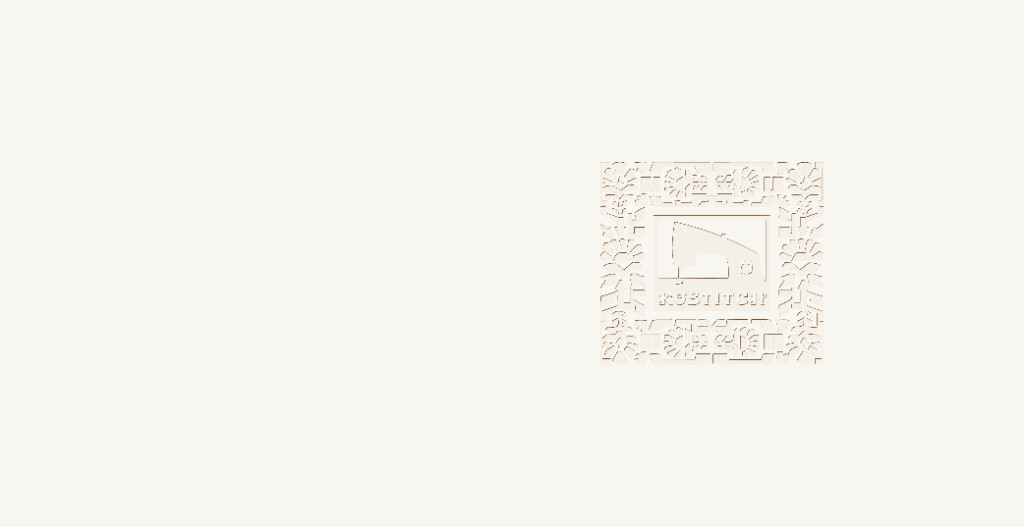
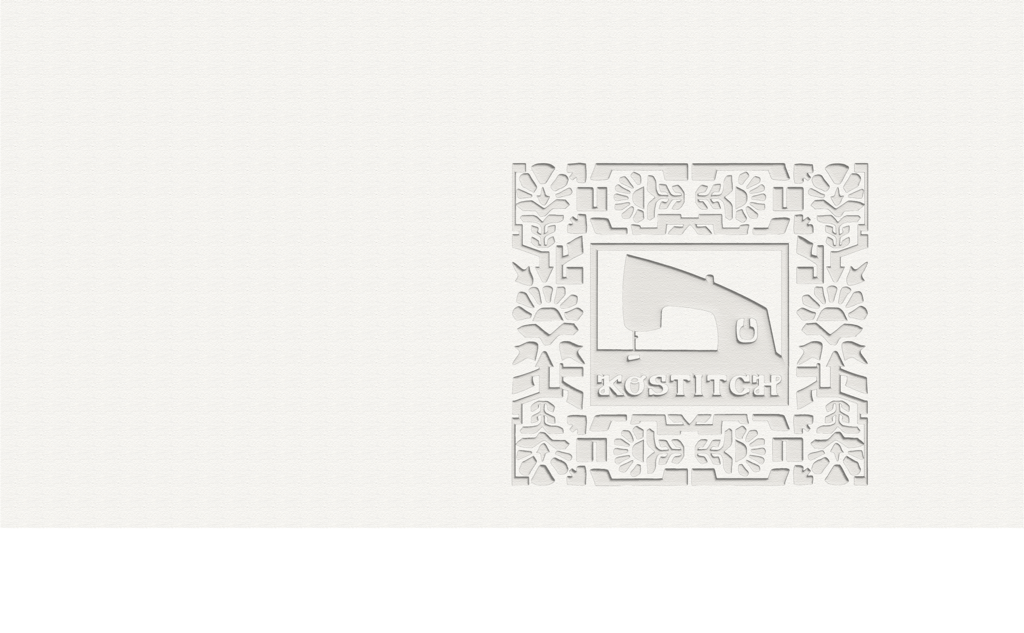
Update hero layout and switch site typography to Poppins.
Refine homepage hero overlay, banner assets, and CTA styling while applying Poppins as the default font across the site.

Changed region(s): [[0.5, 0.2429, 0.875, 0.759], [0.625, 0.4858, 0.6562, 0.5161]]

diff --git a/src/components/sections/HomeHero.jsx b/src/components/sections/HomeHero.jsx
@@ -7,39 +7,37 @@ function HeroContent({ className = '' }) {
 
   return (
     <div className={className}>
-      <h1 className="font-display text-4xl sm:text-5xl lg:text-6xl font-bold text-text-on-light leading-tight mb-8">
+      <h1 className="text-4xl sm:text-5xl lg:text-6xl font-bold uppercase tracking-wide text-text-on-light leading-tight mb-8">
         {headline}
       </h1>
       <Link to="/contact">
-        <Button size="lg">{ctaLabel}</Button>
+        <Button size="lg" className="rounded-full uppercase tracking-widest !text-text-on-light">
+          {ctaLabel}
+        </Button>
       </Link>
     </div>
   )
 }
 
 export default function HomeHero() {
-  const { bannerImage, headline } = homeContent.hero
+  const { bannerImage, bannerImage2x, headline } = homeContent.hero
 
   return (
-    <section className="w-full bg-light">
-      <div className="container-custom pt-24 pb-8 md:hidden">
-        <HeroContent />
-      </div>
-
-      <div className="relative w-full flex justify-end">
-        <img
-          src={bannerImage}
-          alt={headline}
-          width={1024}
-          height={527}
-          className="w-full max-w-[1024px] h-auto block"
-          fetchPriority="high"
-          decoding="async"
-        />
-        <div className="absolute inset-0 hidden md:flex items-center">
-          <div className="container-custom w-full pb-12 lg:pb-16">
-            <HeroContent className="max-w-xl lg:max-w-2xl" />
-          </div>
+    <section className="relative w-full bg-light">
+      <img
+        src={bannerImage}
+        srcSet={`${bannerImage} 1x, ${bannerImage2x} 2x`}
+        sizes="100vw"
+        alt={headline}
+        width={1024}
+        height={633}
+        className="w-full h-auto block"
+        fetchPriority="high"
+        decoding="async"
+      />
+      <div className="absolute inset-0 flex items-start">
+        <div className="container-custom w-full pt-28 pb-12 md:pt-32 lg:pb-16">
+          <HeroContent className="max-w-[11rem] sm:max-w-xs md:max-w-[46%] lg:max-w-md" />
         </div>
       </div>
     </section>

diff --git a/index.html b/index.html
@@ -6,7 +6,7 @@
     <meta name="viewport" content="width=device-width, initial-scale=1.0" />
     <link rel="preconnect" href="https://fonts.googleapis.com" />
     <link rel="preconnect" href="https://fonts.gstatic.com" crossorigin />
-    <link href="https://fonts.googleapis.com/css2?family=Oswald:wght@400;500;600;700&display=swap" rel="stylesheet" />
+    <link href="https://fonts.googleapis.com/css2?family=Poppins:wght@400;500;600;700&display=swap" rel="stylesheet" />
     <title>Kostitch - Premium Garment Manufacturing</title>
   </head>
   <body>

diff --git a/tailwind.config.js b/tailwind.config.js
@@ -7,7 +7,8 @@ export default {
   theme: {
     extend: {
       fontFamily: {
-        display: ['Oswald', 'sans-serif'],
+        sans: ['Poppins', 'sans-serif'],
+        display: ['Poppins', 'sans-serif'],
       },
       colors: {
         cream: '#f8f6f1',

diff --git a/src/data/home.js b/src/data/home.js
@@ -6,6 +6,7 @@ export const homeContent = {
   hero: {
     headline: 'Custom Sewing for Every Industry',
     bannerImage: '/images/hero-tan.png',
+    bannerImage2x: '/images/hero-tan@2x.png',
     ctaLabel: 'Get a Quote',
   },
   whyUs: {

diff --git a/src/styles/index.css b/src/styles/index.css
@@ -21,7 +21,7 @@
   
   body {
     color: var(--color-text-on-light);
-    @apply antialiased;
+    @apply font-sans antialiased;
     background-color: var(--color-light);
   }
 }
